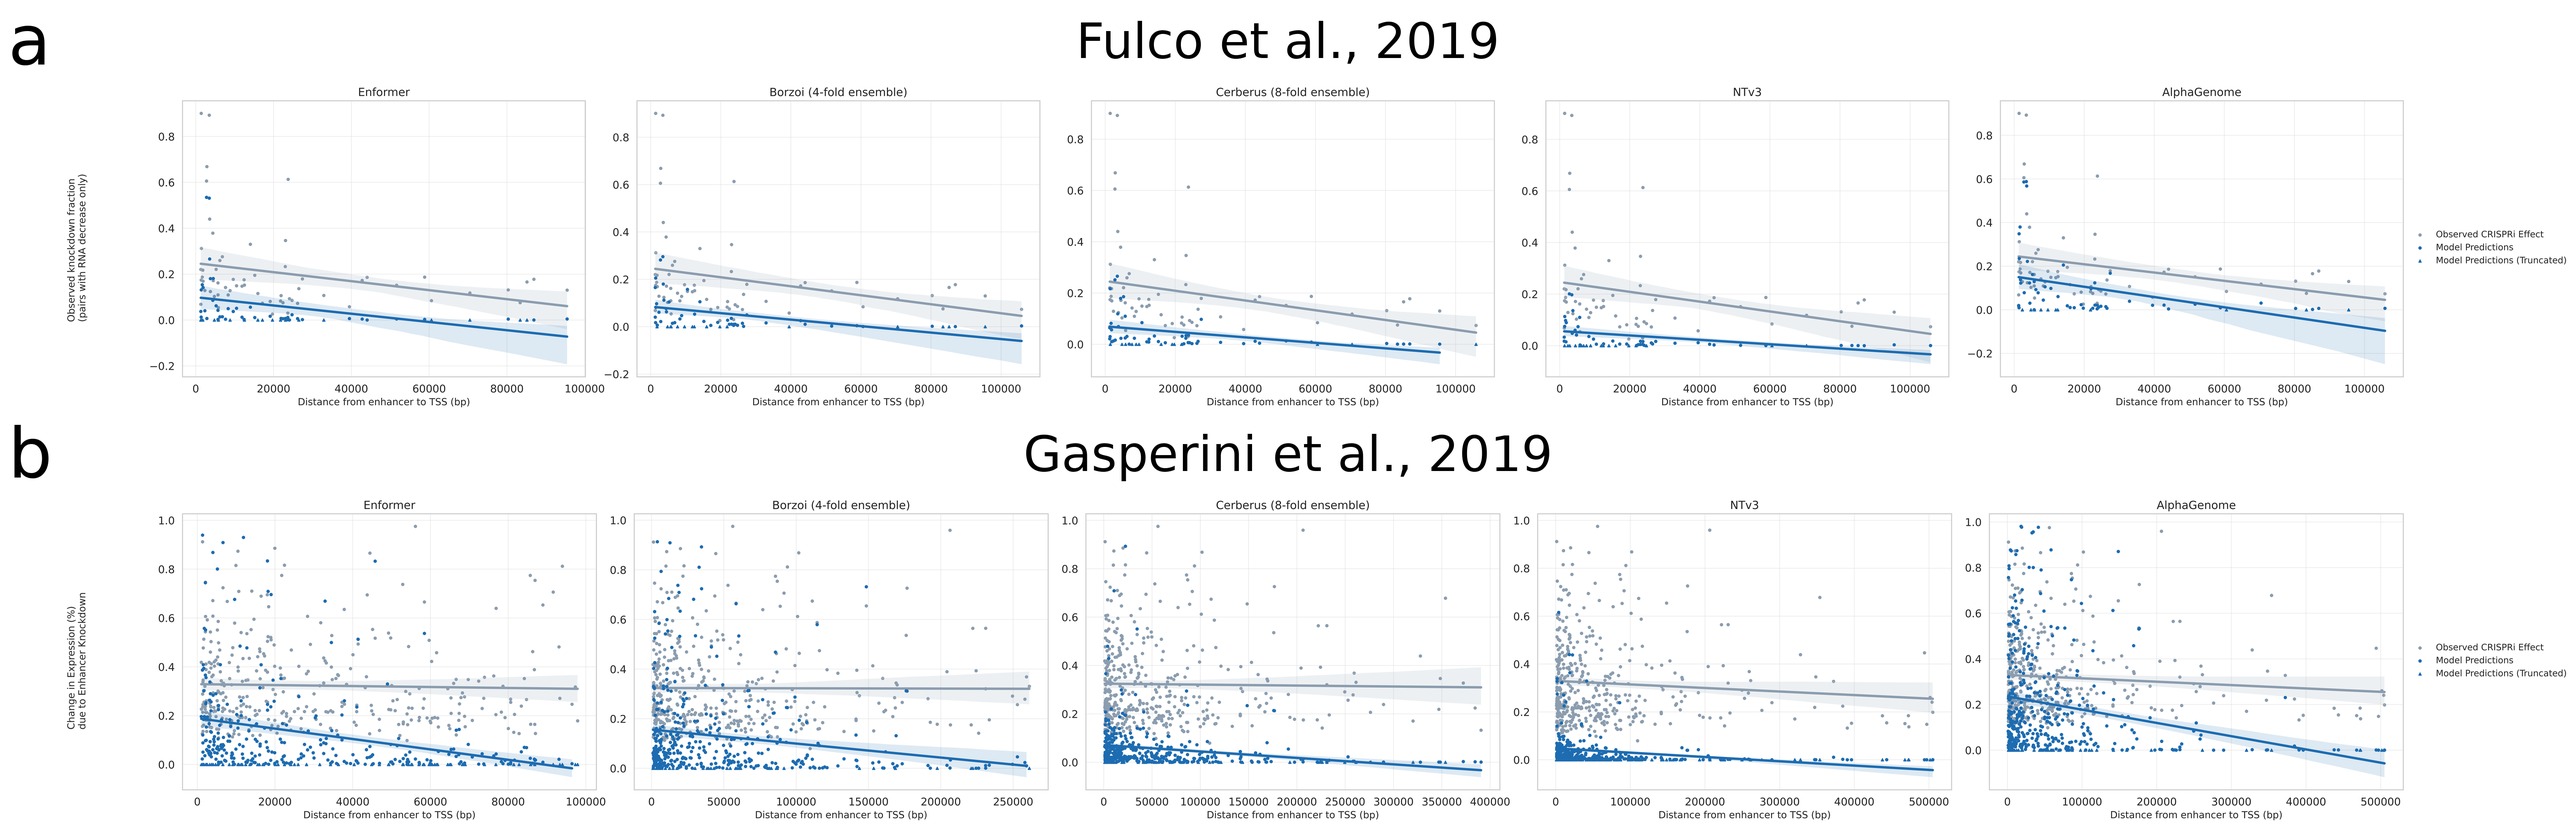
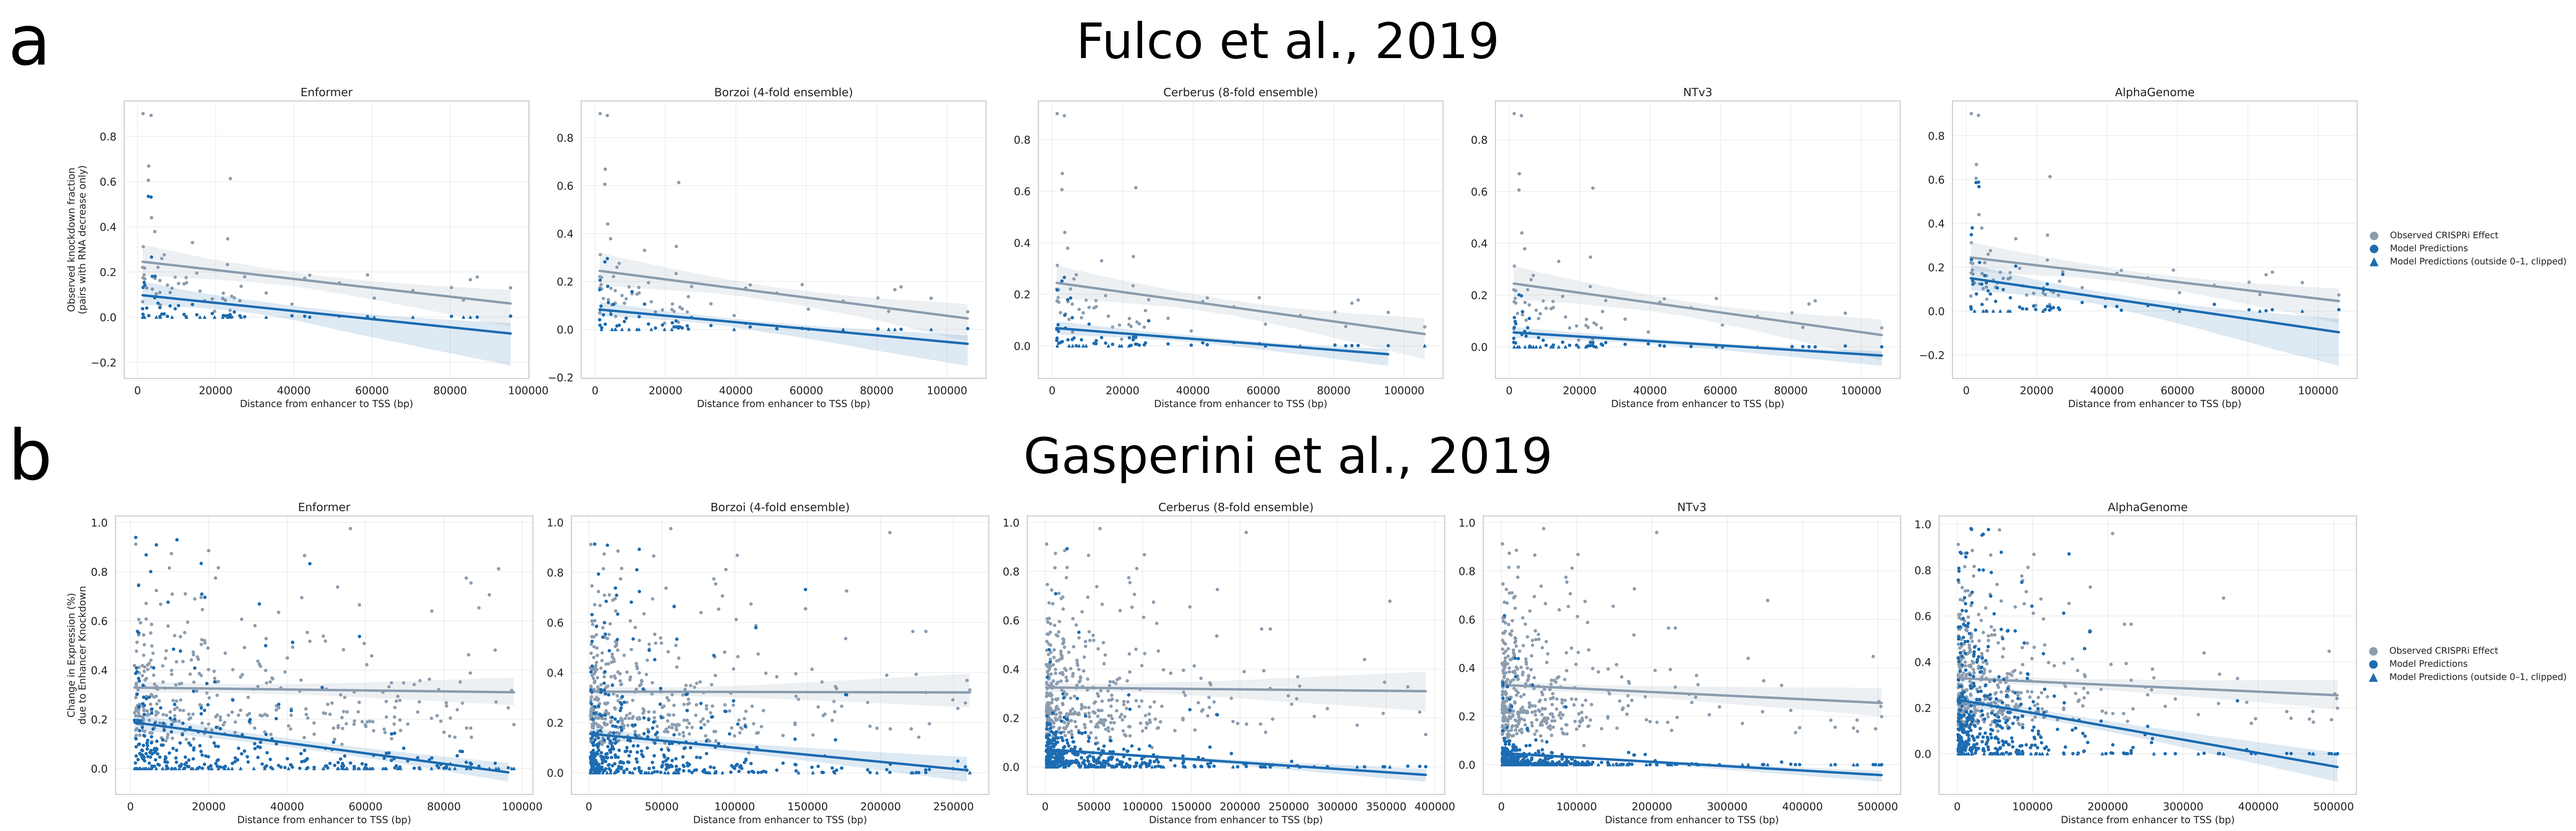
2026-007: cite the AlphaGenome personal-expression preprint's v3; tidy Figure 3
Kashyap, Ramakrishnan and Shen's v3 (29 October 2026) replaces Shen's
single-author v2; its conclusion is unchanged. Figure 3's y-axis title now sits
beside the panels, and its legend marks clipped predictions clearly.

diff --git a/content/blogs/2026-007/index.md b/content/blogs/2026-007/index.md
@@ -69,7 +69,7 @@ Sequence-to-function (seq2func) models keep getting bigger, longer-context, and 
 
 AlphaGenome was launched as a substantial step forward, with most of its zero-shot evaluation focused on single-nucleotide variant (SNV) effects. Two related weaknesses are especially well-documented for this class of model, both originally demonstrated on Enformer: predicting expression across **personalised genomes** (e.g. [Sasse et al.](https://www.nature.com/articles/s41588-023-01524-6)), and predicting **distal CRE effect magnitudes** (how much knocking down a far-away enhancer changes its target gene's expression). Both involve sequence perturbations the model wasn't directly trained on, and both are where seq2func models historically struggle. Performance on these tasks is what tells us whether a model's apparent advance translates to the questions biologists actually care about.
 
-The personalised genome question is how well a model predicts gene expression for a specific individual from their own genome. It's hard because the variants that distinguish one individual from the reference are sparse and small in effect, easy to lose against the much stronger reference signal a sequence model is trained to predict. [Tu et al., 2026](https://www.biorxiv.org/content/10.64898/2026.02.01.702969v1.full) and [Shen, 2025](https://www.biorxiv.org/content/10.1101/2025.08.05.668750v2.full) recently revisited it: AlphaGenome improves over Enformer on this task, but still falls well short of useful accuracy. The needle moves, but there's a long way to go.
+The personalised genome question is how well a model predicts gene expression for a specific individual from their own genome. It's hard because the variants that distinguish one individual from the reference are sparse and small in effect, easy to lose against the much stronger reference signal a sequence model is trained to predict. [Tu et al., 2026](https://www.biorxiv.org/content/10.64898/2026.02.01.702969v1.full) and [Kashyap et al., 2026](https://www.biorxiv.org/content/10.1101/2025.08.05.668750v3.full) recently revisited it: AlphaGenome improves over Enformer on this task, but still falls well short of useful accuracy. The needle moves, but there's a long way to go.
 
 The distal-CRE magnitude question — much bigger perturbations, disabling a whole regulatory element — has received little attention since [Karollus et al., 2023](https://genomebiology.biomedcentral.com/articles/10.1186/s13059-023-02899-9). They defined an _in-silico_ CRISPRi benchmark on [Fulco 2019](https://pubmed.ncbi.nlm.nih.gov/31784727/) and [Gasperini 2019](https://pubmed.ncbi.nlm.nih.gov/30612741/) and ran it on Enformer and Basenji2, finding both substantially undershoot real enhancer effects. Borzoi, Cerberus, NTv3, and AlphaGenome have all followed Enformer, claiming gains from longer contexts and broader predictive tasks — yet none have been evaluated on Karollus's magnitude benchmark.
 
@@ -200,7 +200,7 @@ These methodological differences may shift absolute Pearson values, though broad
 
 The benchmark tests seq2func models on experimentally validated distal enhancer-promoter interactions. AlphaGenome's gains over Enformer on distal CRE effect-magnitude prediction are substantial, and most pronounced on the larger Gasperini et al. screen. That's real progress. But the headline finding — that even AlphaGenome underestimates the magnitude of distal-enhancer effects — converges with what AlphaGenome's own paper observed on the easier enhancer-gene linking task on ENCODE-rE2G: distal CREs remain hard from two distinct evaluation angles. Fully benchmarking seq2func models on distal CRE effect magnitudes will require follow-up CRISPRi screens in cell lines beyond K562 — without them, we can't tell which gains generalise.
 
-Echoing [Tu et al., 2026](https://www.biorxiv.org/content/10.64898/2026.02.01.702969v1.full) and [Shen, 2025](https://www.biorxiv.org/content/10.1101/2025.08.05.668750v2.full) from a different angle: AlphaGenome improves CRISPRi effect prediction, but the remaining gap — especially for distal CREs — is still an open problem for the field.
+Echoing [Tu et al., 2026](https://www.biorxiv.org/content/10.64898/2026.02.01.702969v1.full) and [Kashyap et al., 2026](https://www.biorxiv.org/content/10.1101/2025.08.05.668750v3.full) from a different angle: AlphaGenome improves CRISPRi effect prediction, but the remaining gap — especially for distal CREs — is still an open problem for the field.
 
 The repo is set up so adding another model is one new `scripts/test_<dataset>_<newmodel>.py` writing a CSV with `y_delta` and `pred_delta` columns. If you've got a model you want to test, we'd love to see it!
 
@@ -226,7 +226,7 @@ The repo is set up so adding another model is one new `scripts/test_<dataset>_<n
 7. Fulco, C. P. et al. Activity-by-contact model of enhancer–promoter regulation from thousands of CRISPR perturbations. _Nature Genetics_, 51, 1664–1669 (2019). https://doi.org/10.1038/s41588-019-0538-0
 8. Gasperini, M. et al. A genome-wide framework for mapping gene regulation via cellular genetic screens. _Cell_, 176, 377–390.e19 (2019). https://doi.org/10.1016/j.cell.2018.11.029
 9. Tu, X. et al. A modality gap in personal-genome prediction by sequence-to-function models. _bioRxiv_ (2026). https://doi.org/10.64898/2026.02.01.702969
-10. Shen, L. AlphaGenome enhances personal gene expression prediction but retains key limitations. _bioRxiv_ (2025). https://doi.org/10.1101/2025.08.05.668750
+10. Kashyap, S., Ramakrishnan, A., Shen, L. AlphaGenome enhances personal gene expression prediction but retains key limitations. _bioRxiv_ (2026). https://doi.org/10.1101/2025.08.05.668750
 11. Sasse, A., Ng, B., Spiro, A.E. et al. Benchmarking of deep neural networks for predicting personal gene expression from DNA sequence highlights shortcomings. _Nature Genetics_, 55, 2060–2064 (2023). https://doi.org/10.1038/s41588-023-01524-6
 12. Koo, P.K., Majdandzic, A., Ploenzke, M., Anand, P., Paul, S.B. Global importance analysis: An interpretability method to quantify importance of genomic features in deep neural networks. _PLoS Computational Biology_, 17(5), e1008925 (2021). https://doi.org/10.1371/journal.pcbi.1008925
 13. Toneyan, S., Tang, Z., Koo, P.K. Evaluating deep learning for predicting epigenomic profiles. _Nature Machine Intelligence_, 4, 1088–1100 (2022). https://doi.org/10.1038/s42256-022-00570-9
